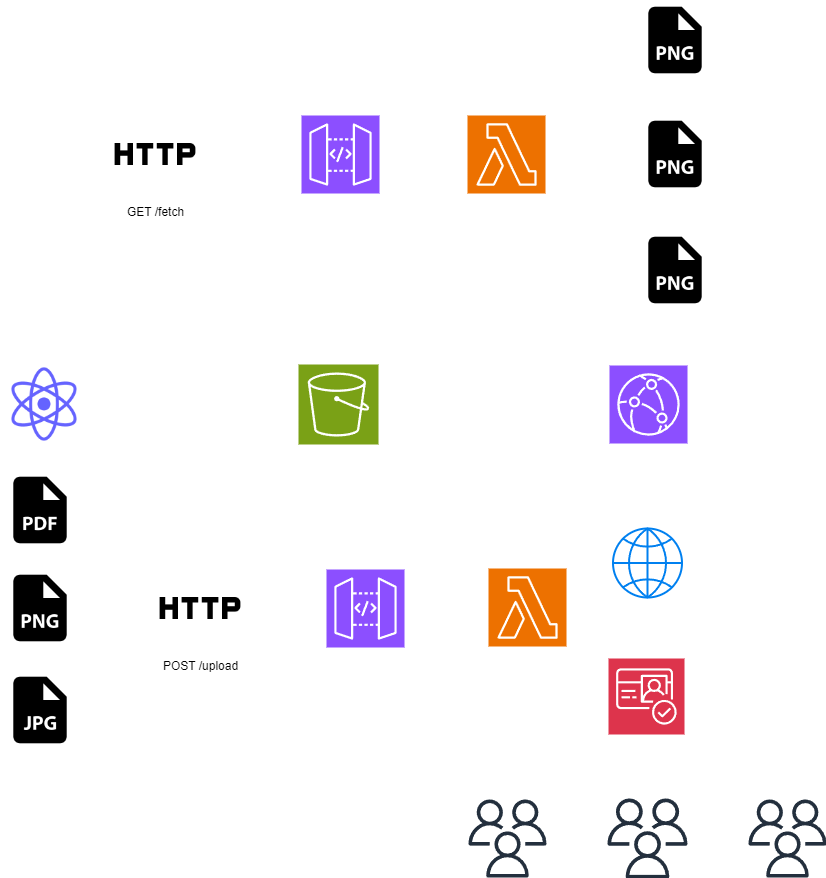
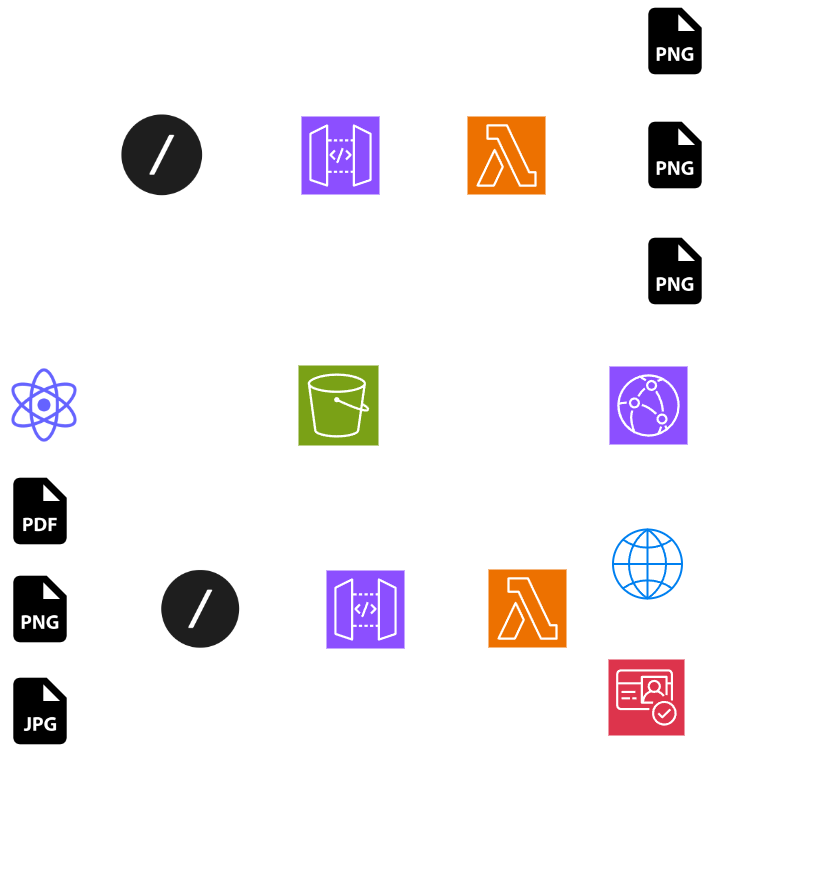
delete test image and restore diagram

diff --git a/README.md b/README.md
@@ -21,7 +21,7 @@
 - **Cognito**: Amazon Cognito provides user authentication and authorization services, enabling secure access to the VKloud platform.
 
 ### Diagram:
-![alt text](https://github.com/iCanDerpU/cloud/blob/main/images/test.png "VKloud infrastracture")
+![alt text](https://github.com/iCanDerpU/cloud/blob/main/images/vkloud-infra.png "VKloud infrastracture")
 
 ## Using the Cloud UI
 
